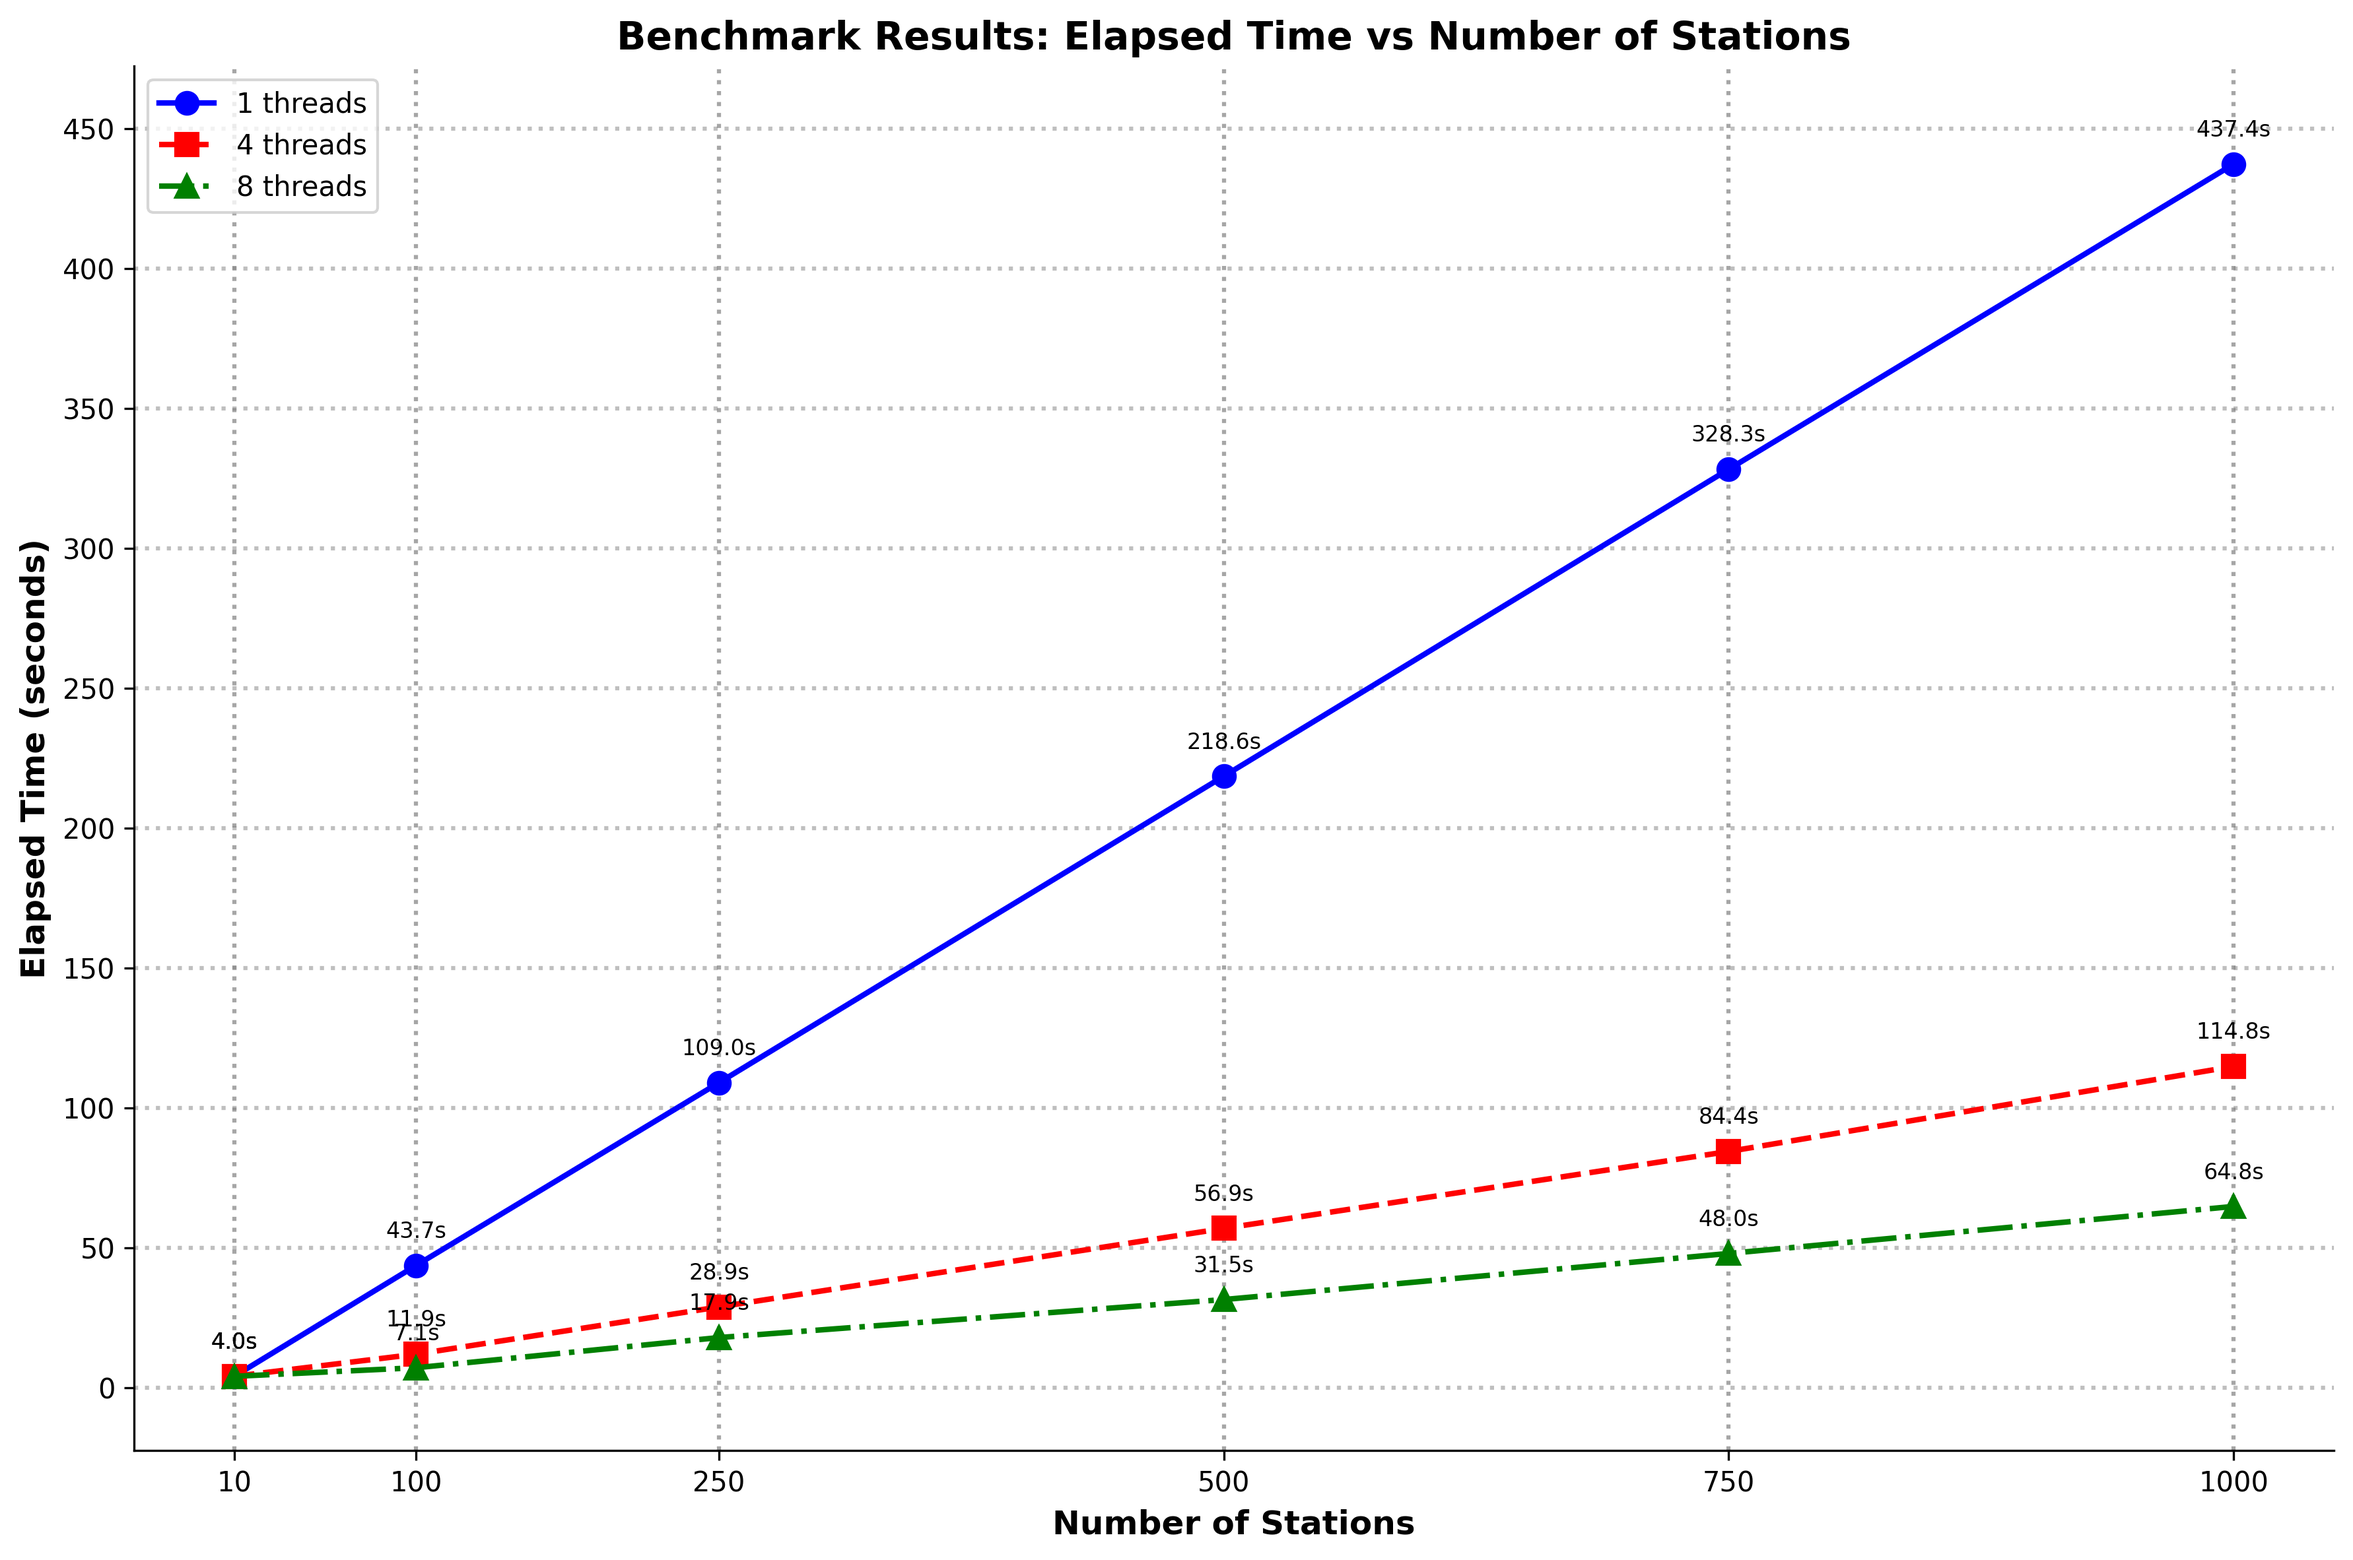
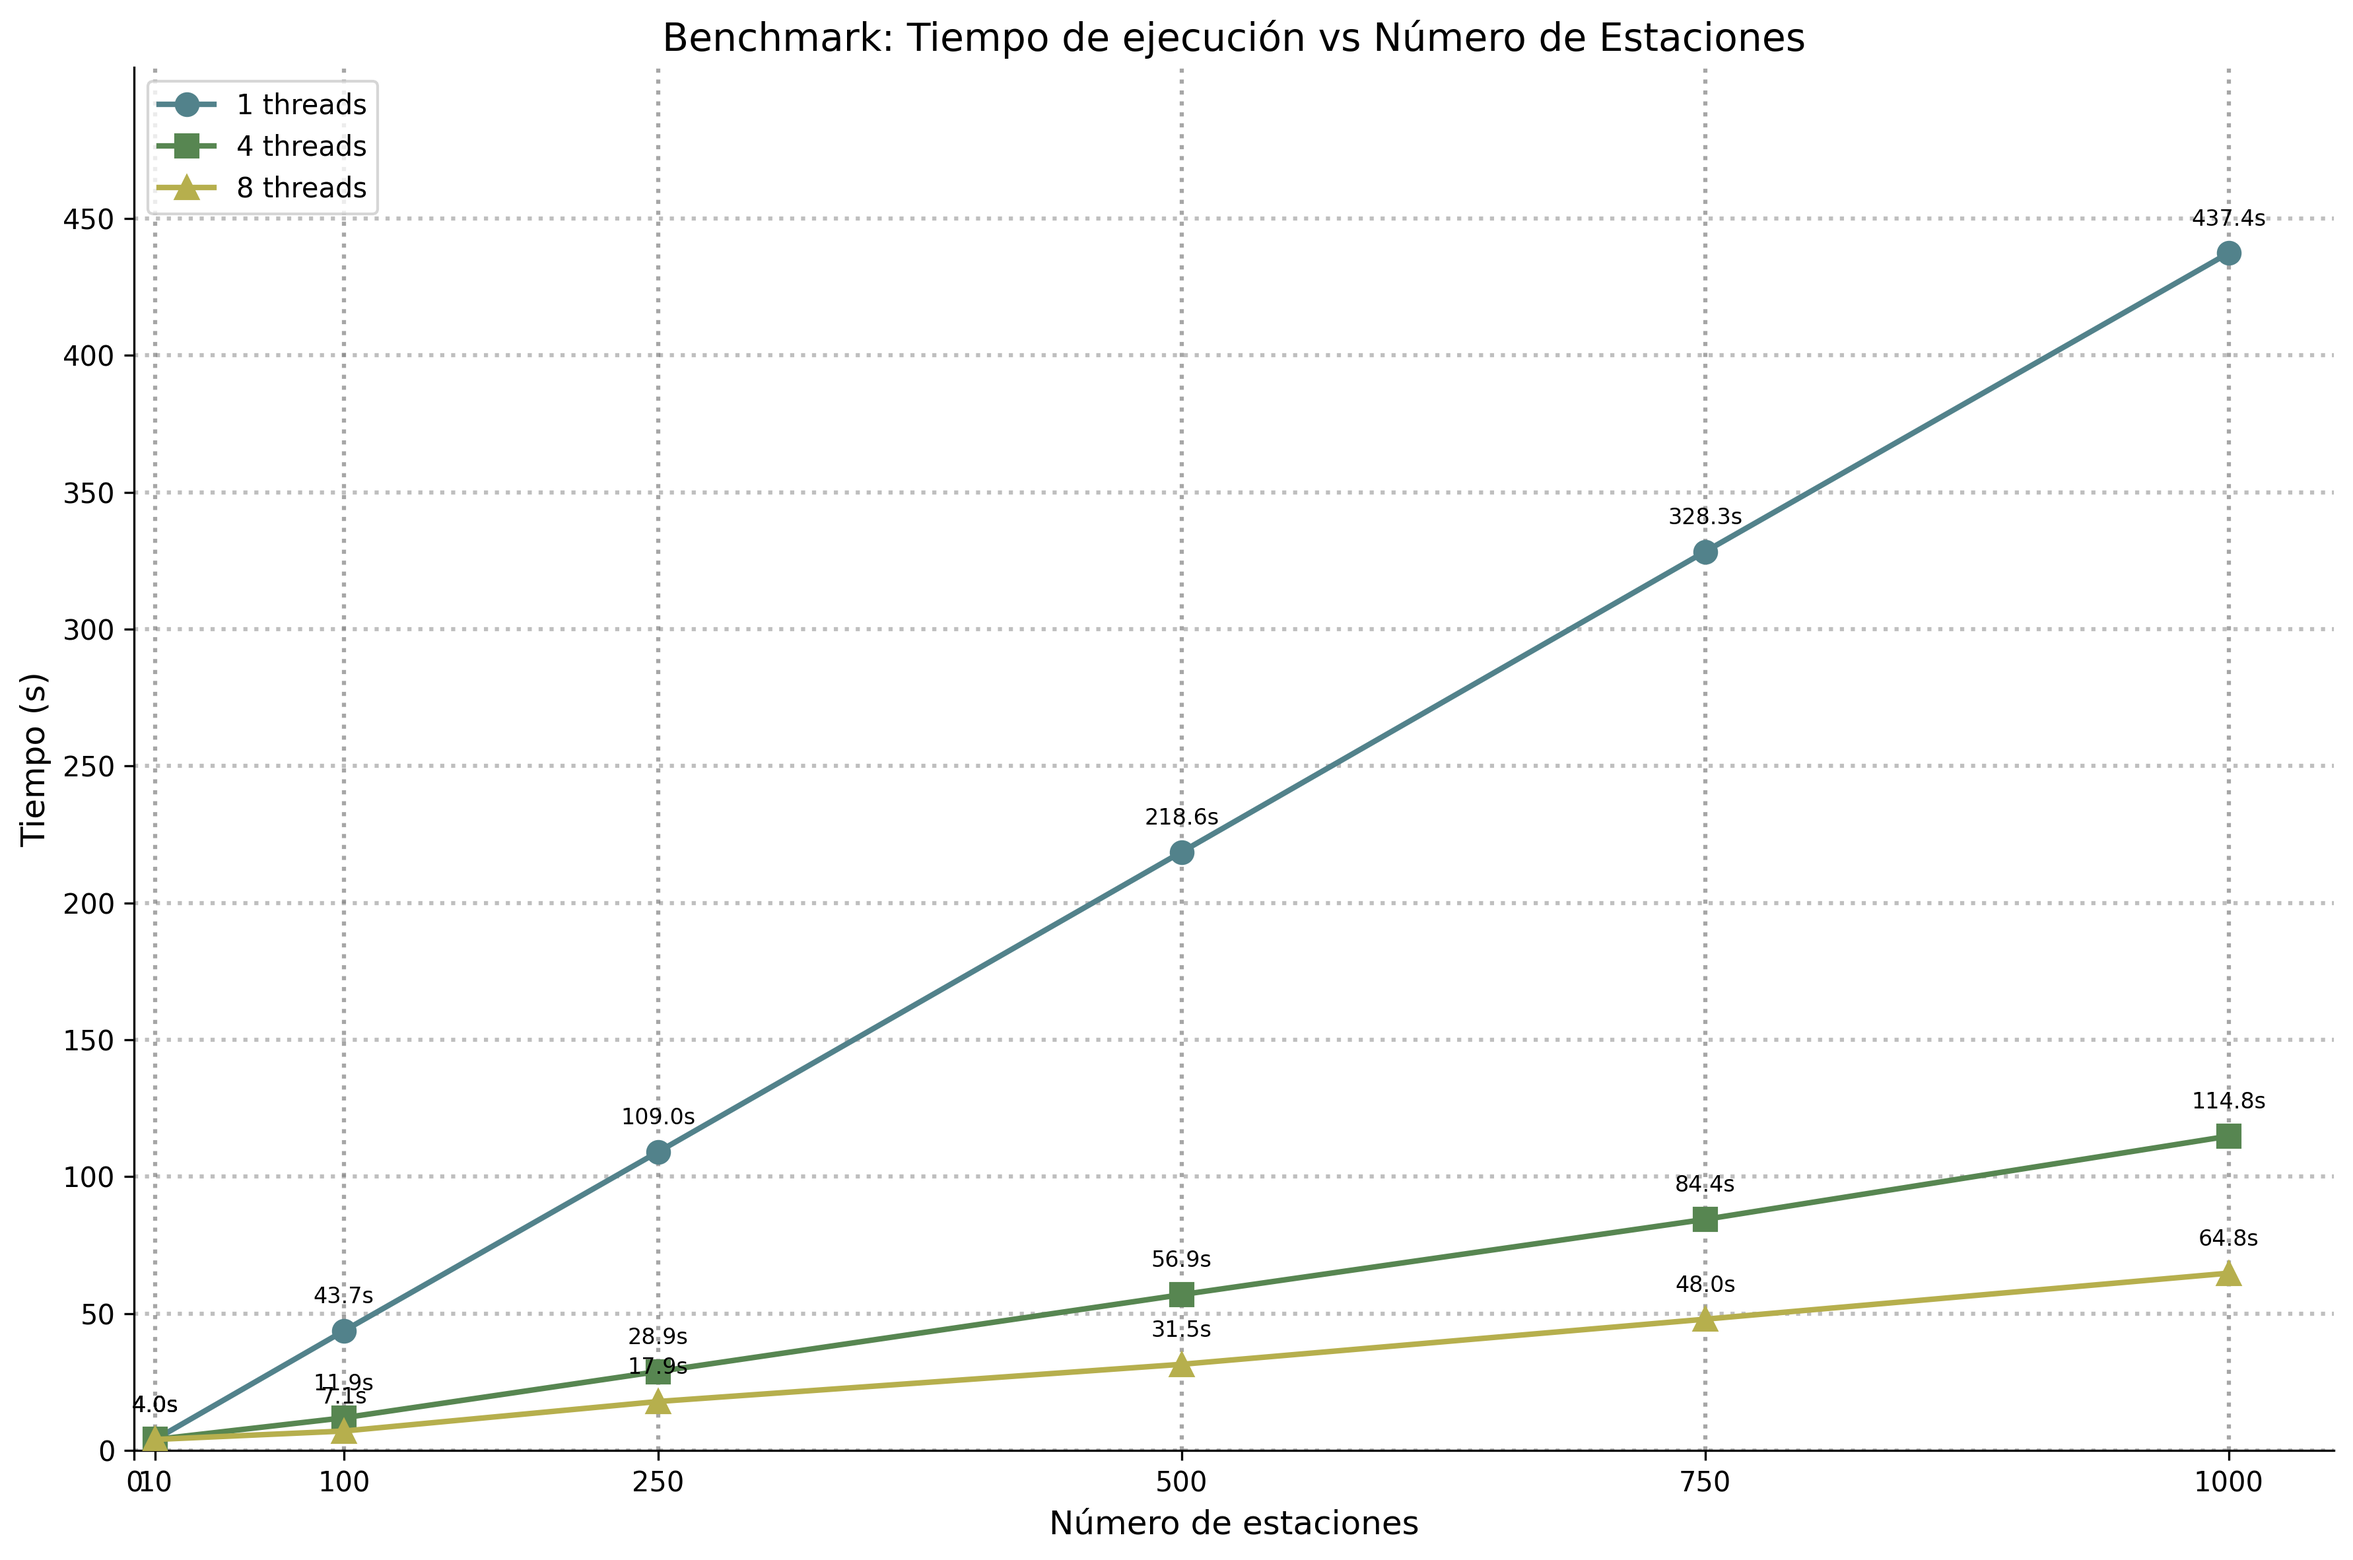
mejor png

diff --git a/benchmark_results_processing.py b/benchmark_results_processing.py
@@ -83,9 +83,9 @@ max_elapsed_time = (
 
 # Plot with improvements
 plt.figure(figsize=(12, 8))
-colors = ["blue", "red", "green"]
+colors = ["#52828b", "#578651", "#b6af4d"]
 markers = ["o", "s", "^"]
-line_styles = ["-", "--", "-."]
+line_styles = ["-", "-", "-"]
 
 # Set specific y-ticks with a reasonable range
 y_ticks = np.arange(0, max_elapsed_time, 50)
@@ -128,16 +128,17 @@ for i, threads in enumerate(sorted(results.keys())):
         )  # Ensure labels are also on top
 
 # Configure the plot
-plt.xlabel("Number of Stations", fontsize=12, fontweight="bold")
-plt.ylabel("Elapsed Time (seconds)", fontsize=12, fontweight="bold")
-plt.title(
-    "Benchmark Results: Elapsed Time vs Number of Stations",
-    fontsize=14,
-    fontweight="bold",
-)
+plt.xlabel("Número de estaciones", fontsize=12)
+plt.ylabel("Tiempo (s)", fontsize=12)
+plt.title("Benchmark: Tiempo de ejecución vs Número de Estaciones", fontsize=14)
 
 # Set specific x-ticks at station values
-plt.xticks(station_values)
+# Set specific x-ticks at station values with 0 included
+plt.xticks([0] + station_values)
+
+# Set axes to start at 0,0
+plt.xlim(0, max(station_values) * 1.05)  # Add a small margin on the right
+plt.ylim(0, max_elapsed_time * 1.05)  # Add a small margin on the top
 
 plt.legend(fontsize=10, loc="upper left")
 plt.grid(False)  # Disable default grid since we're adding custom grid lines
